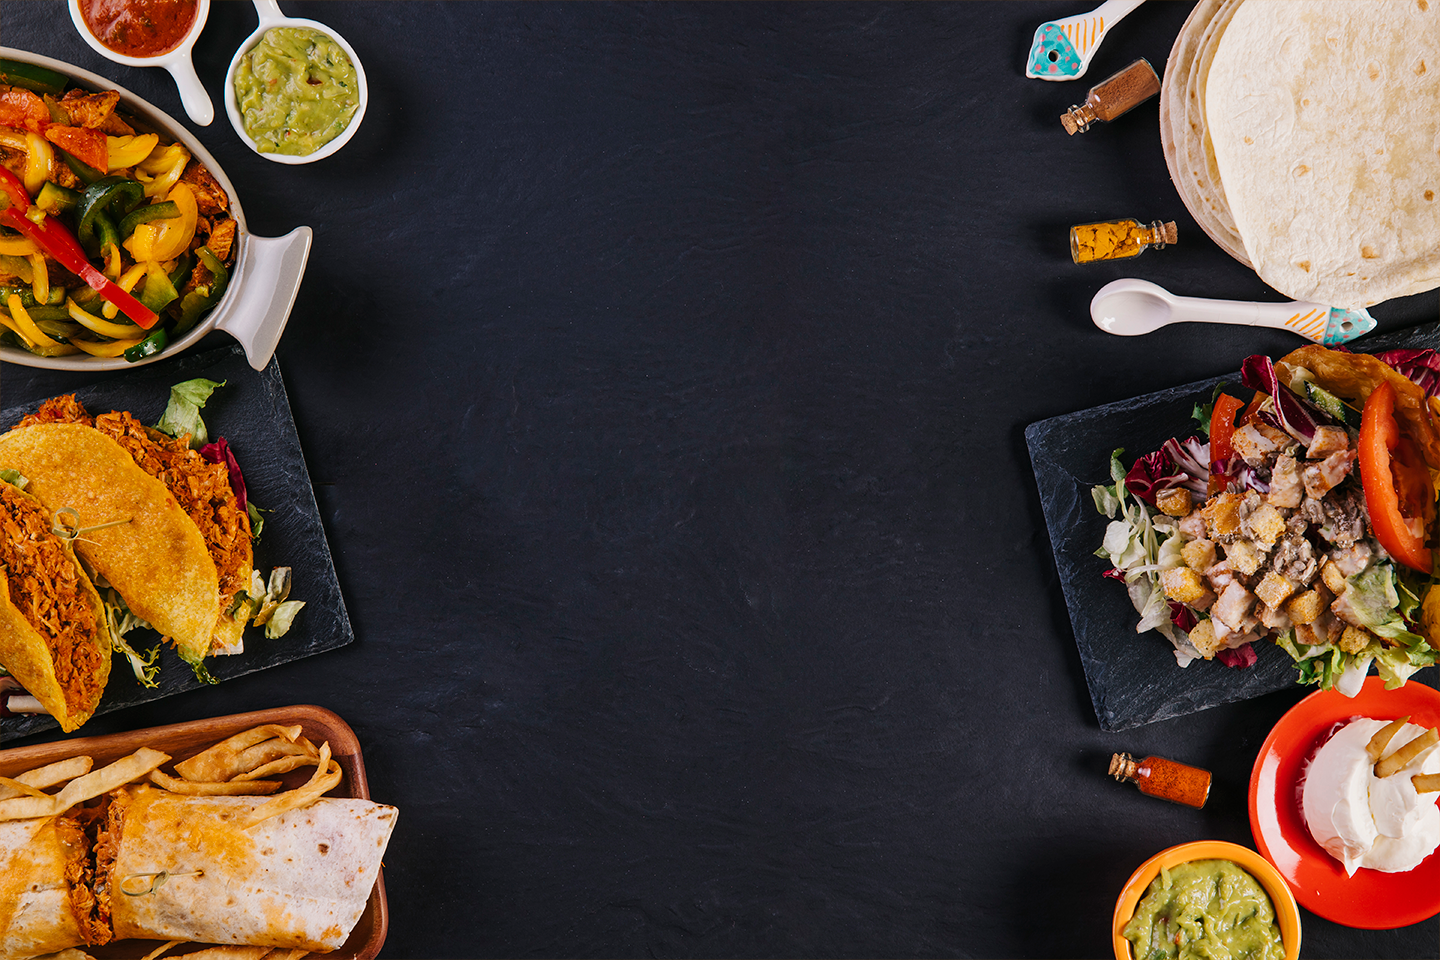
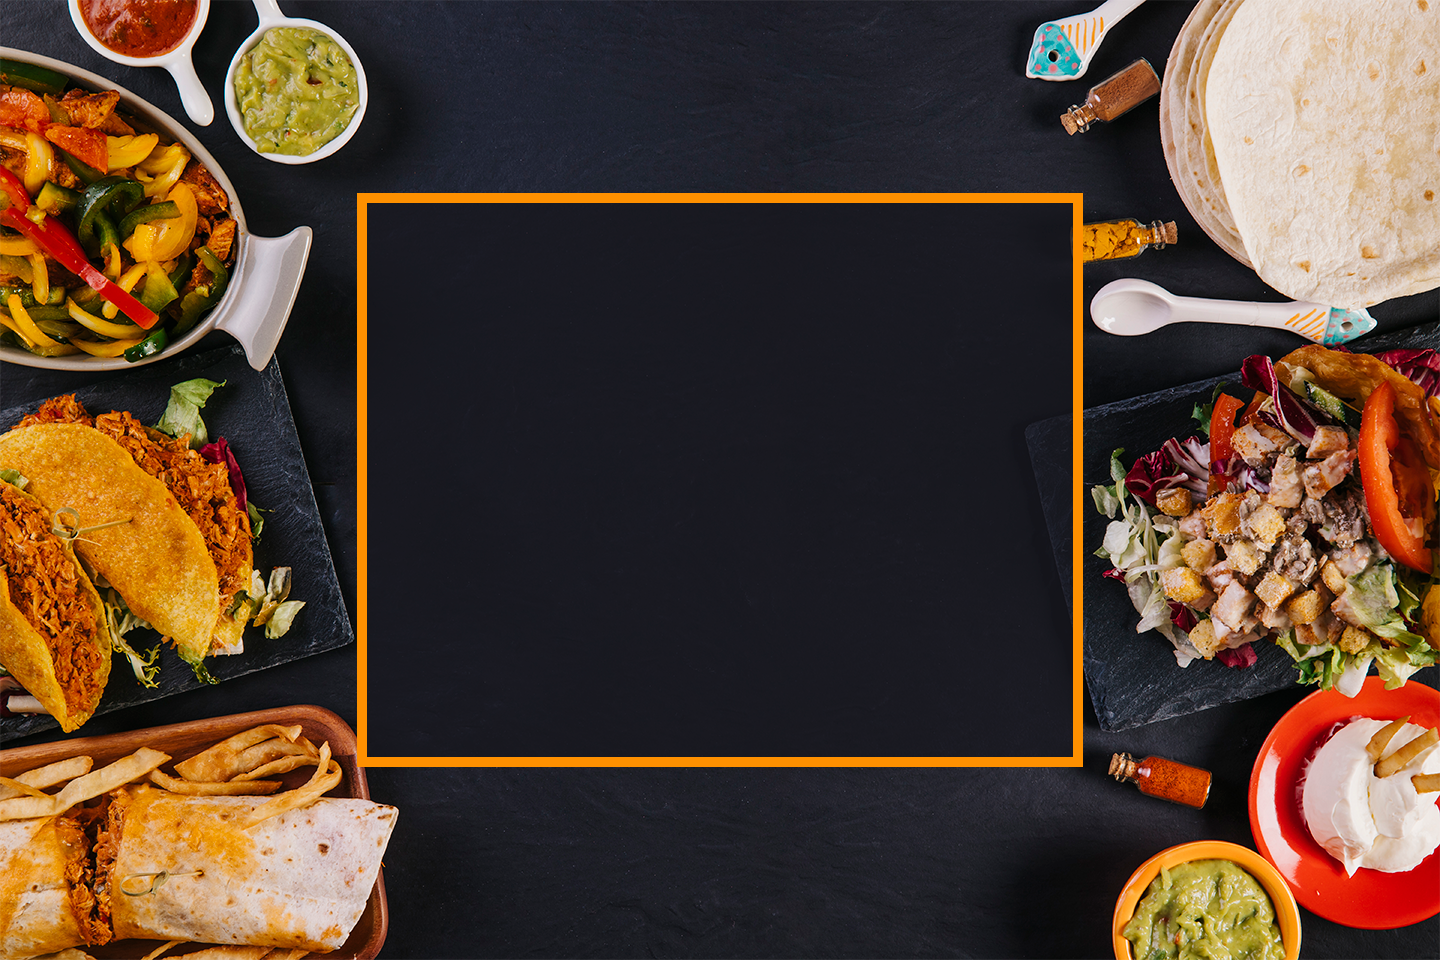
main

Changed region(s): [[0.25, 0.1875, 0.75, 0.8125]]

diff --git a/index.html b/index.html
@@ -173,13 +173,26 @@
 
     <div class="enjou">
         <div class="container-fluid">
-            <div class="d-flex align-items-center justify-content-center">
-                <img class=" img-fluid" src="img/5_2.png" alt="Меню">
- 
+            <div class="row align-items-center justify-content-center   ">
+                <div class="col-md-6 ram mx-auto ">               
+                    <span>Enjoy Our Food</span><br>
+                     <small>Lorem ipsum dolor, sit amet consectetur adipisicing elit. Illo distinctio molestias assumenda quam iusto alias animi possimus, sunt, recusandae non blanditiis earum expedita eum cupiditate! Sit quis ipsa commodi neque!</small>
+                     
+                </div>
             </div>
+             
         </div>
     </div>
 
+    <div class="our_menu">
+        <div class="container-fluid">
+            <div class="row align-items-center justify-content-center">
+                 <div class="col ">
+                     <p>Our Menu</p>
+                 </div>
+            </div>
+        </div>
+    </div>
 
     <script src="https://ajax.googleapis.com/ajax/libs/jquery/1.11.3/jquery.min.js"></script>
 </body>

diff --git a/less/style.less b/less/style.less
@@ -133,11 +133,36 @@ main{
     
     background: @back url(../img/5_1.png) center center no-repeat;
     background-size: cover;
-   //padding-top: 100%;
-  
-   padding: 10rem 0;
+    margin-top: 100px;
+    height: 965px;
+    .container-fluid{
+        height: 965px;
+    }
+   .ram{ 
+       position: relative; 
+        padding: 100px;
+        display: inline-block;
+        align-items: center;
+        color: white;
+        text-align: center;
+        padding-top: 300px;
+         small {
+        //     vertical-align: middle;
+        //      width: 726px;
+        //      height: 574px;
+        //     position: absolute;
+        //    //right: 0;
+        //     color: white;
+        //     align-content: center;
+            
+        }
+     }
 }
-
+.our_menu{
+    p{
+        color: white;
+    }
+}
  @font-face {
     font-family: 'Myriad Pro';
     src: url('../fonts/MyriadPro-Regular.eot');

diff --git a/css/style.css b/css/style.css
@@ -97,6 +97,29 @@ main {
 .galerry .g_img {
   margin-top: 15px;
 }
+.enjou {
+  background: #1d1d23 url(../img/5_1.png) center center no-repeat;
+  background-size: cover;
+  margin-top: 100px;
+  height: 965px;
+}
+.enjou .container-fluid {
+  height: 965px;
+}
+.enjou .ram {
+  position: relative;
+  padding: 100px;
+  display: inline-block;
+  -webkit-box-align: center;
+      -ms-flex-align: center;
+          align-items: center;
+  color: white;
+  text-align: center;
+  padding-top: 300px;
+}
+.our_menu p {
+  color: white;
+}
 @font-face {
   font-family: 'Myriad Pro';
   src: url('../fonts/MyriadPro-Regular.eot');
